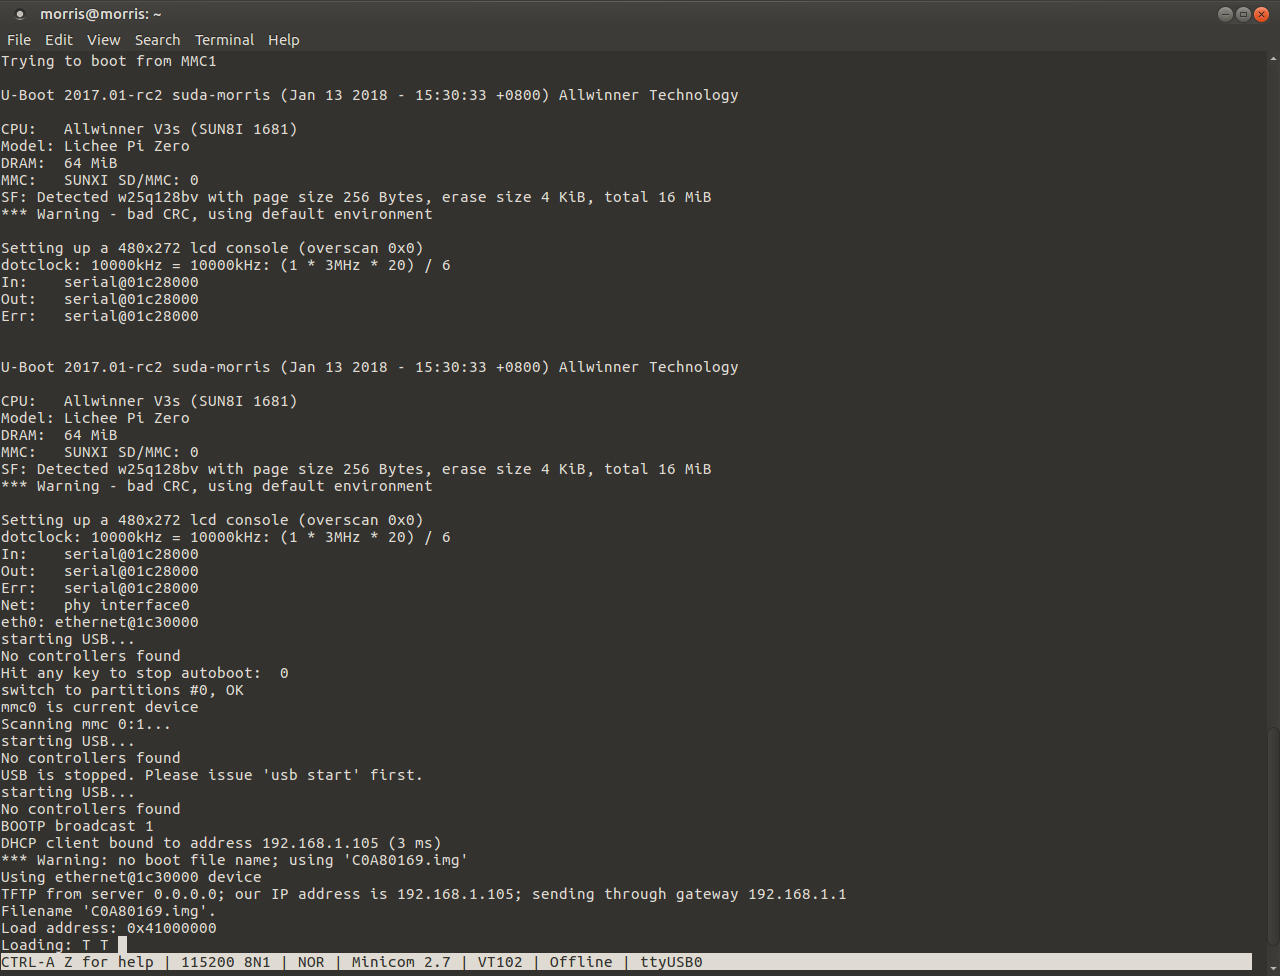
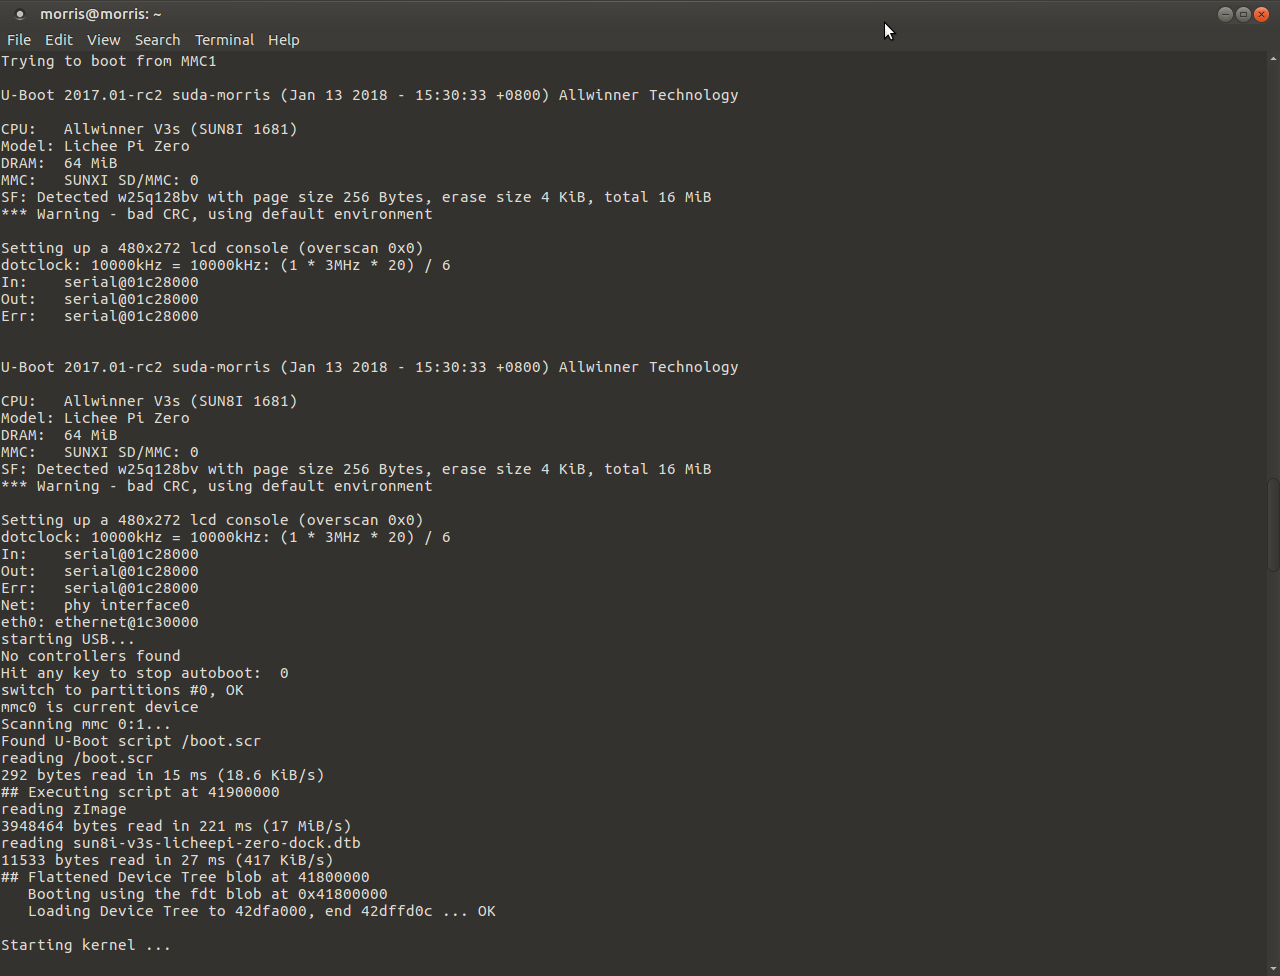
build new kernel first time

Changed region(s): [[0.0, 0.7377, 1.0, 1.0]]

diff --git a/docs/tutorial/SUDA-V3S User Guide.md b/docs/tutorial/SUDA-V3S User Guide.md
@@ -89,7 +89,7 @@ time make ARCH=arm CROSS_COMPILE=arm-linux-gnueabihf- 2>&1 | tee build.log
 ```shell
 setenv bootargs console=ttyS0,115200 panic=5 console=tty0 rootwait root=/dev/mmcblk0p2 earlyprintk rw
 load mmc 0:1 0x41000000 zImage
-load mmc 0:1 0x41800000 sun8i-v3s-licheepi-zero-ctc.dtb
+load mmc 0:1 0x41800000 sun8i-v3s-licheepi-zero-dock.dtb
 bootz 0x41000000 - 0x41800000
 ```
 
@@ -111,7 +111,7 @@ make ARCH=arm CROSS_COMPILE=arm-linux-gnueabihf- -j16 INSTALL_MOD_PATH=out modul
 make ARCH=arm CROSS_COMPILE=arm-linux-gnueabihf- -j16 INSTALL_MOD_PATH=out modules_install
 ```
 
-最终会在arch/arm/boot下生成zImage，在out文件夹下生成驱动.ko文件
+最终会在arch/arm/boot下生成zImage，在arch/arm/boot/dts/下生成设备树二进制文件，在out文件夹下生成驱动.ko文件
 
 ### 系统烧写
 
@@ -161,11 +161,12 @@ Linux主机安装minicom，使用命令：`sudo apt-get install minicom`
 
 串口终端tty属于**dialout**组别，需要将当前用户添加到该组中，这样才有权限访问tty*设备，具体使用如下命令:`sudo usermod -a -G dialout your-user-name`
 
+#### 烧写内核启动参数&zImage&设备树
+
+1. 编写boot.cmd文件，并且编译成boot.scr二进制
+2. 将boot.scr，zImage，dtb设备文件拷贝到SD卡的第一个分区
+
 ![uboot启动过程](imgs/uboot-starting.png)
-
-#### 烧写内核
-
-
 
 ### 可能需要使用的shell脚本
 
@@ -276,7 +277,34 @@ sudo umount mnt >/dev/null 2>&1
 
 
 
+### 设备树简介
 
+> Device Tree是一种描述硬件的数据结构。通过将dts(device tree source)文件编译成dtb二进制文件，供Linux操作系统内核识别目标板卡上的硬件信息。
+
+```bash
+/ {  
+    node1 {  
+        a-string-property = "A string";  
+        a-string-list-property = "first string", "second string";  
+        a-byte-data-property = [0x01 0x23 0x34 0x56];  
+        child-node1 {  
+            first-child-property;  
+            second-child-property = <1>;  
+            a-string-property = "Hello, world";  
+        };  
+        child-node2 {  
+        };  
+    };  
+    node2 {  
+        an-empty-property;  
+        a-cell-property = <1 2 3 4>; /* each number (cell) is a uint32 */  
+        child-node1 {  
+        };  
+    };  
+};
+```
+
+* deviec tree由节点和属性组成，节点下面可以包含子节点，属性通过键值对来描述。
 
 
 
